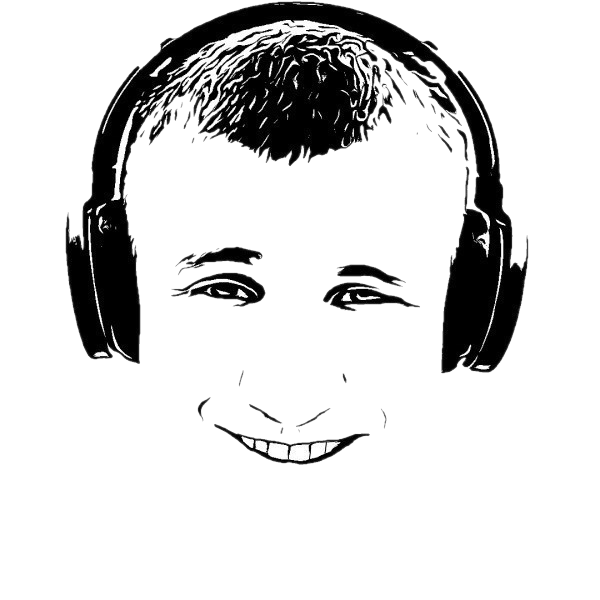
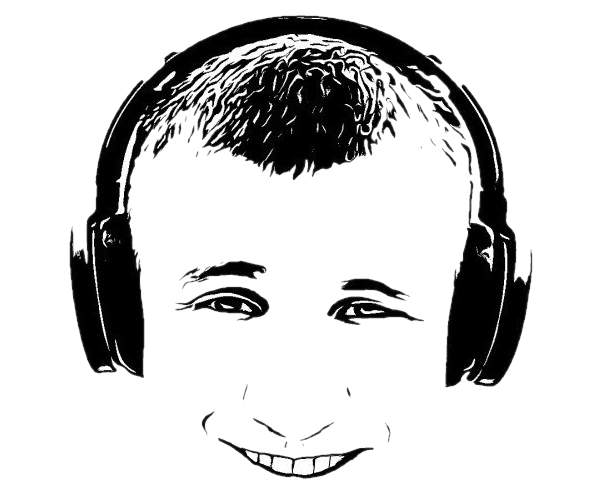
Fix profile-img.png it's margin in 'About'.

diff --git a/templates/index.html b/templates/index.html
@@ -92,7 +92,7 @@
         </div>
 
         <div class="row">
-          <div class="col-lg-4" data-aos="fade-right">
+          <div class="col-lg-4 mb-5 mb-lg-0" data-aos="fade-right">
             <img src="static/img/profile-img.png" class="img-fluid" alt="">
           </div>
           <div class="col-lg-8 pt-4 pt-lg-0 content" data-aos="fade-left">
